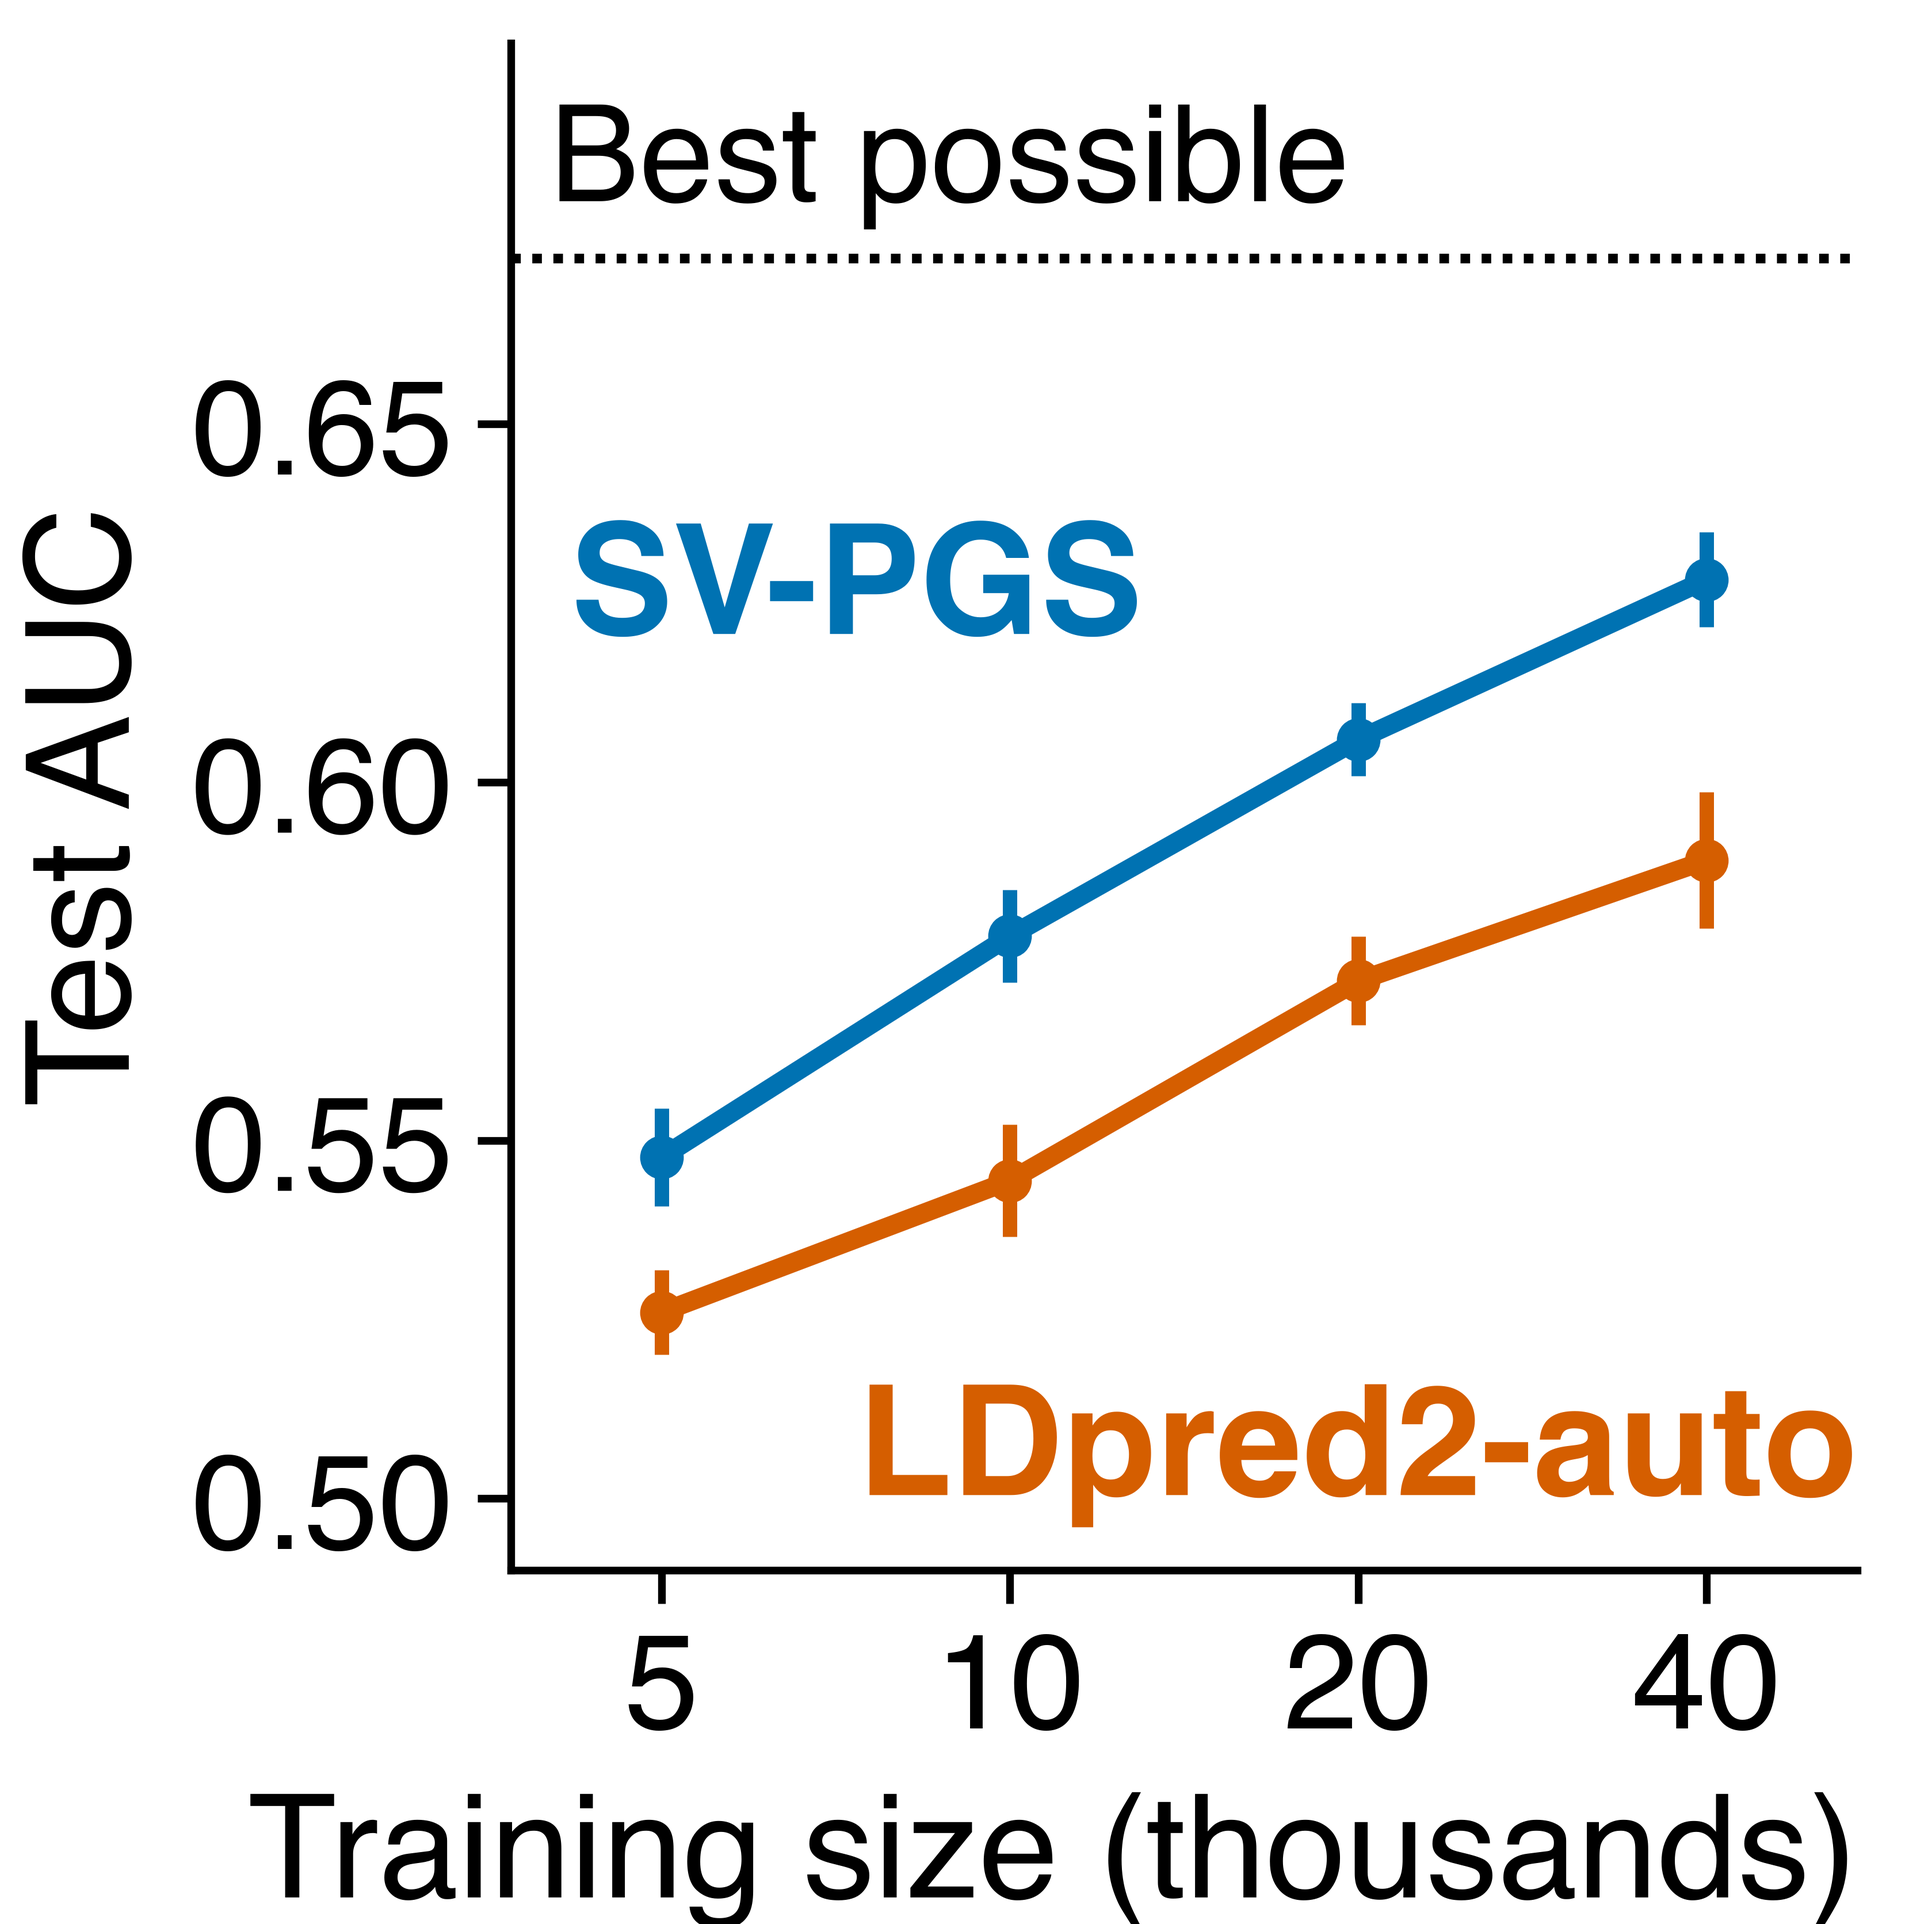
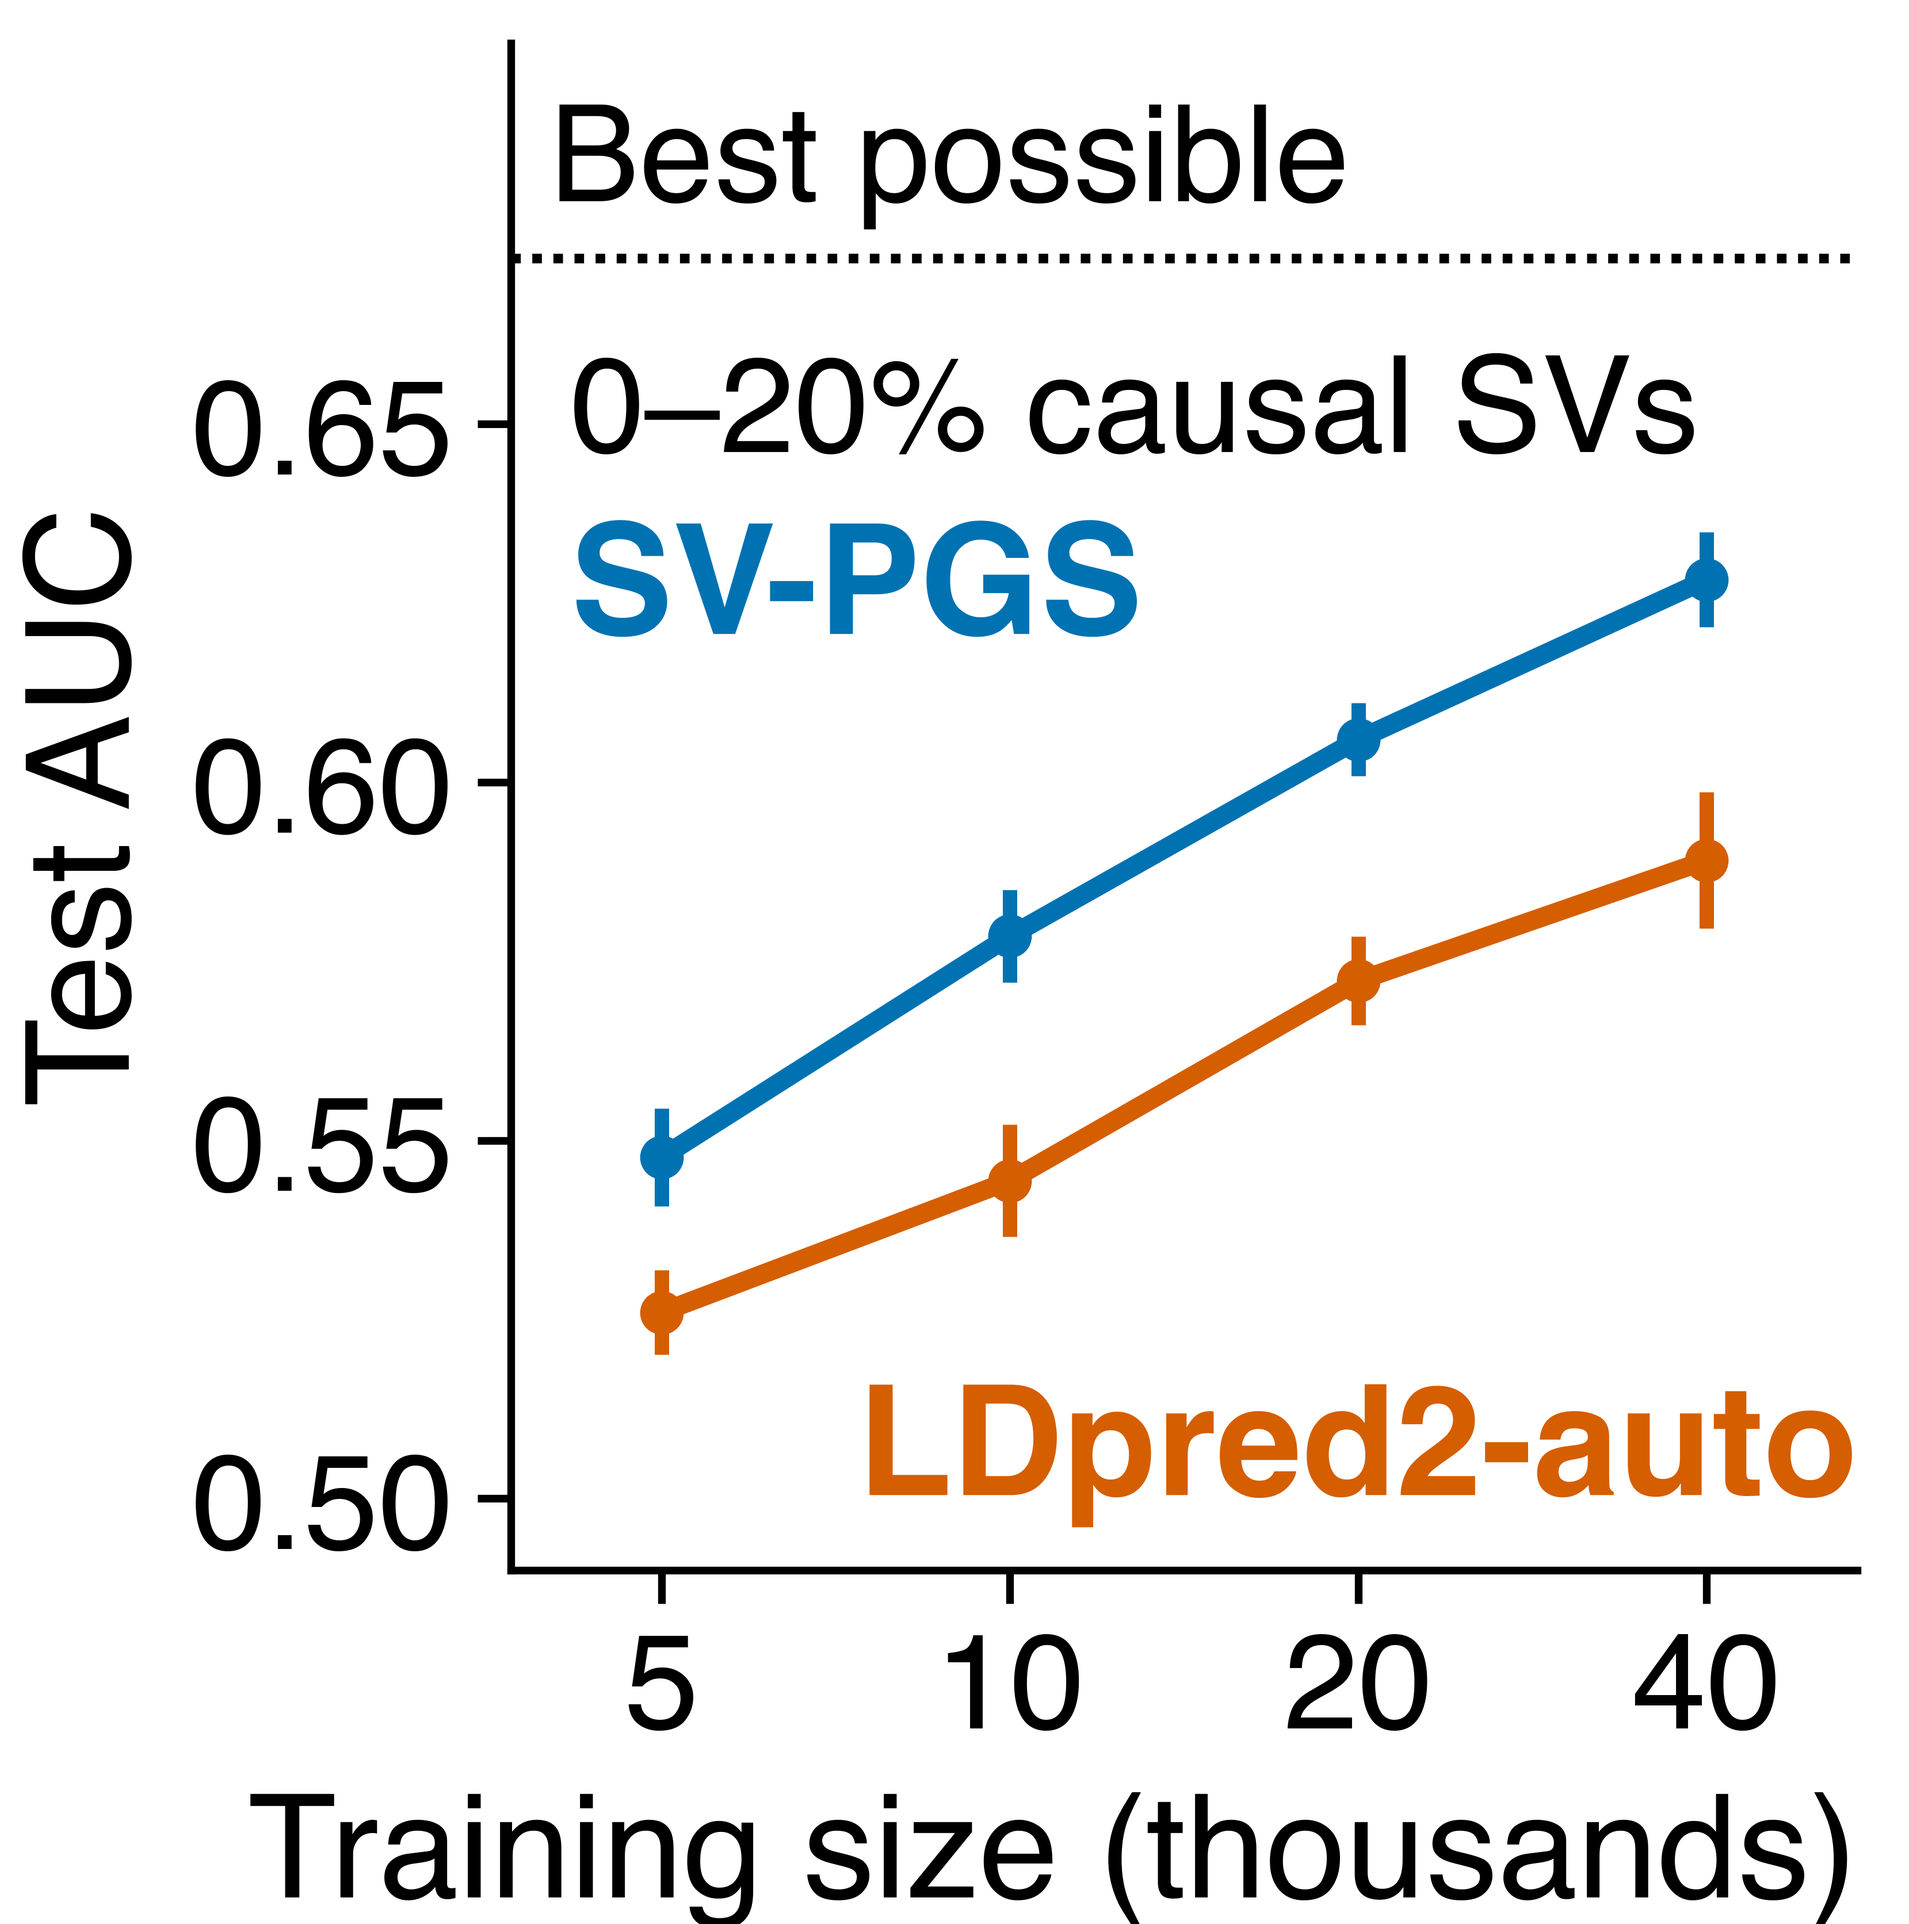
The poster's test AUC by training size figure says inside the plot that it averages the architectures with 0% to 20% causal SVs (docs/poster/ashg2026/sim_gallery.py). The label "0–20% causal SVs" sits between the line of the best possible AUC and SV-PGS's name, at the figure's tick size, and the fig

Changed region(s): [[0.2794, 0.1865, 0.9002, 0.2487]]

diff --git a/docs/poster/ashg2026/sim_gallery.py b/docs/poster/ashg2026/sim_gallery.py
@@ -830,6 +830,9 @@ def poster_accuracy_figure(grids, summary):
             fontweight="bold", ha="left", va="bottom")
     ax.text(1, 0.496, "LDpred2-auto", transform=shifted(ax, 0.0), color=LDPRED2, fontsize=POSTER_NAME,
             fontweight="bold", ha="right", va="bottom")
+    # which simulations the means average, between SV-PGS's name and the best possible AUC
+    ax.text(SIZES[0] / 1.2, upper["SV-PGS"][-1] + 0.008, f"{SV_SHARES[0][1][:-1]}–{SV_SHARES[-1][1]} causal SVs",
+            color=INK, ha="left", va="bottom")
     ax.set_ylim(0.49, ceiling + 0.03)
     ax.set_yticks(np.arange(0.5, 0.651, 0.05), ["0.50", "0.55", "0.60", "0.65"])
     ax.set_ylabel("Test AUC")
